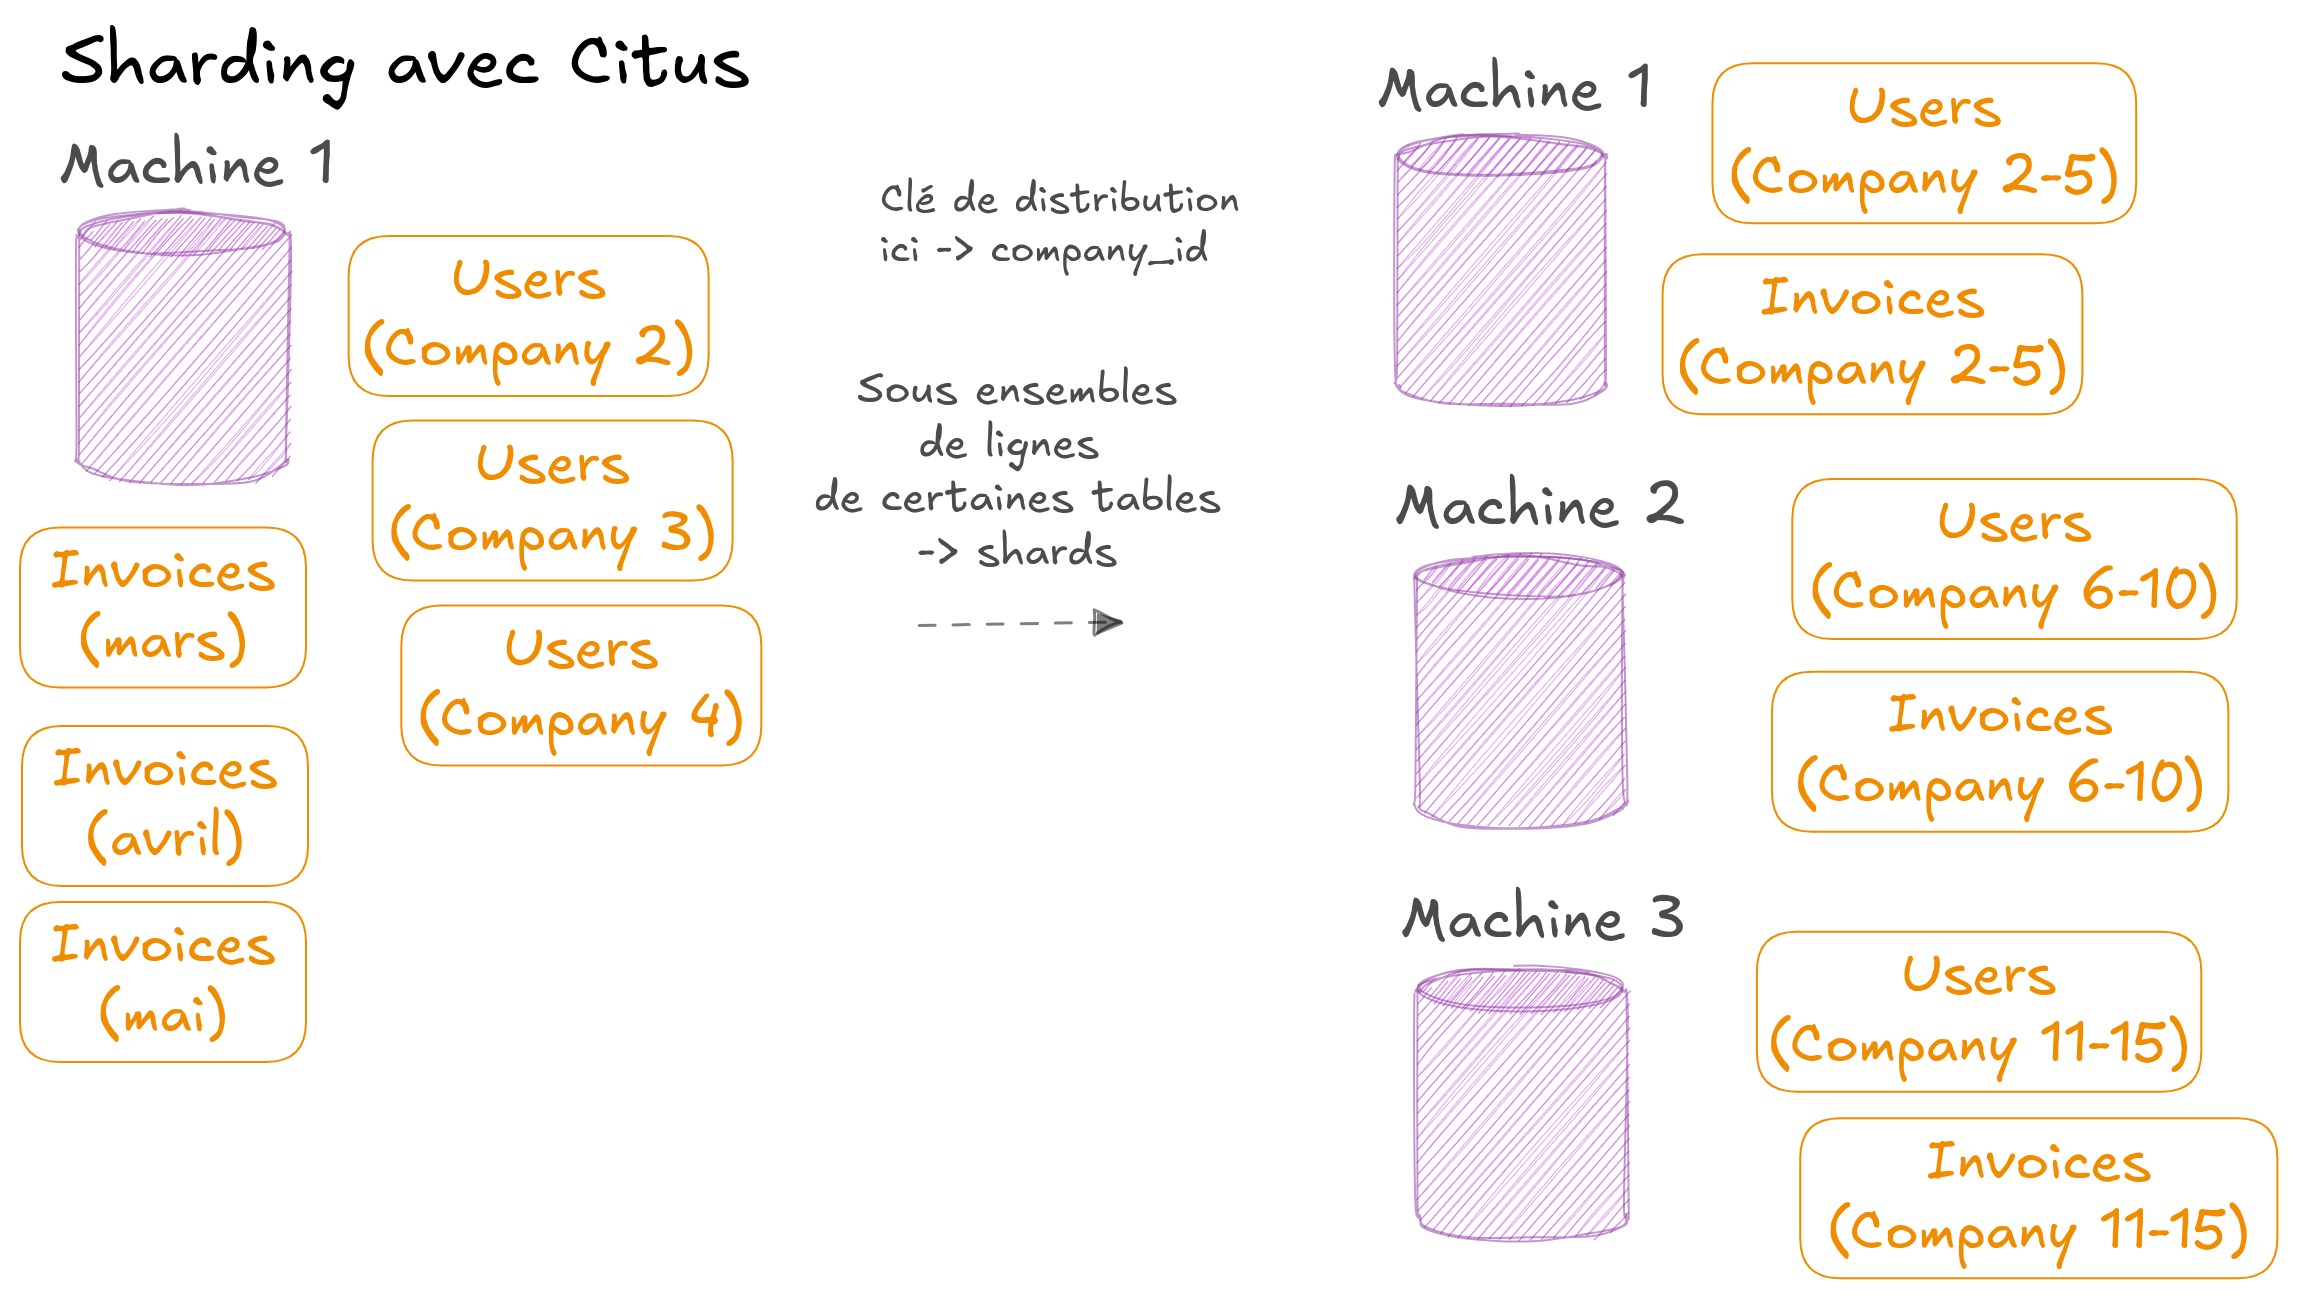
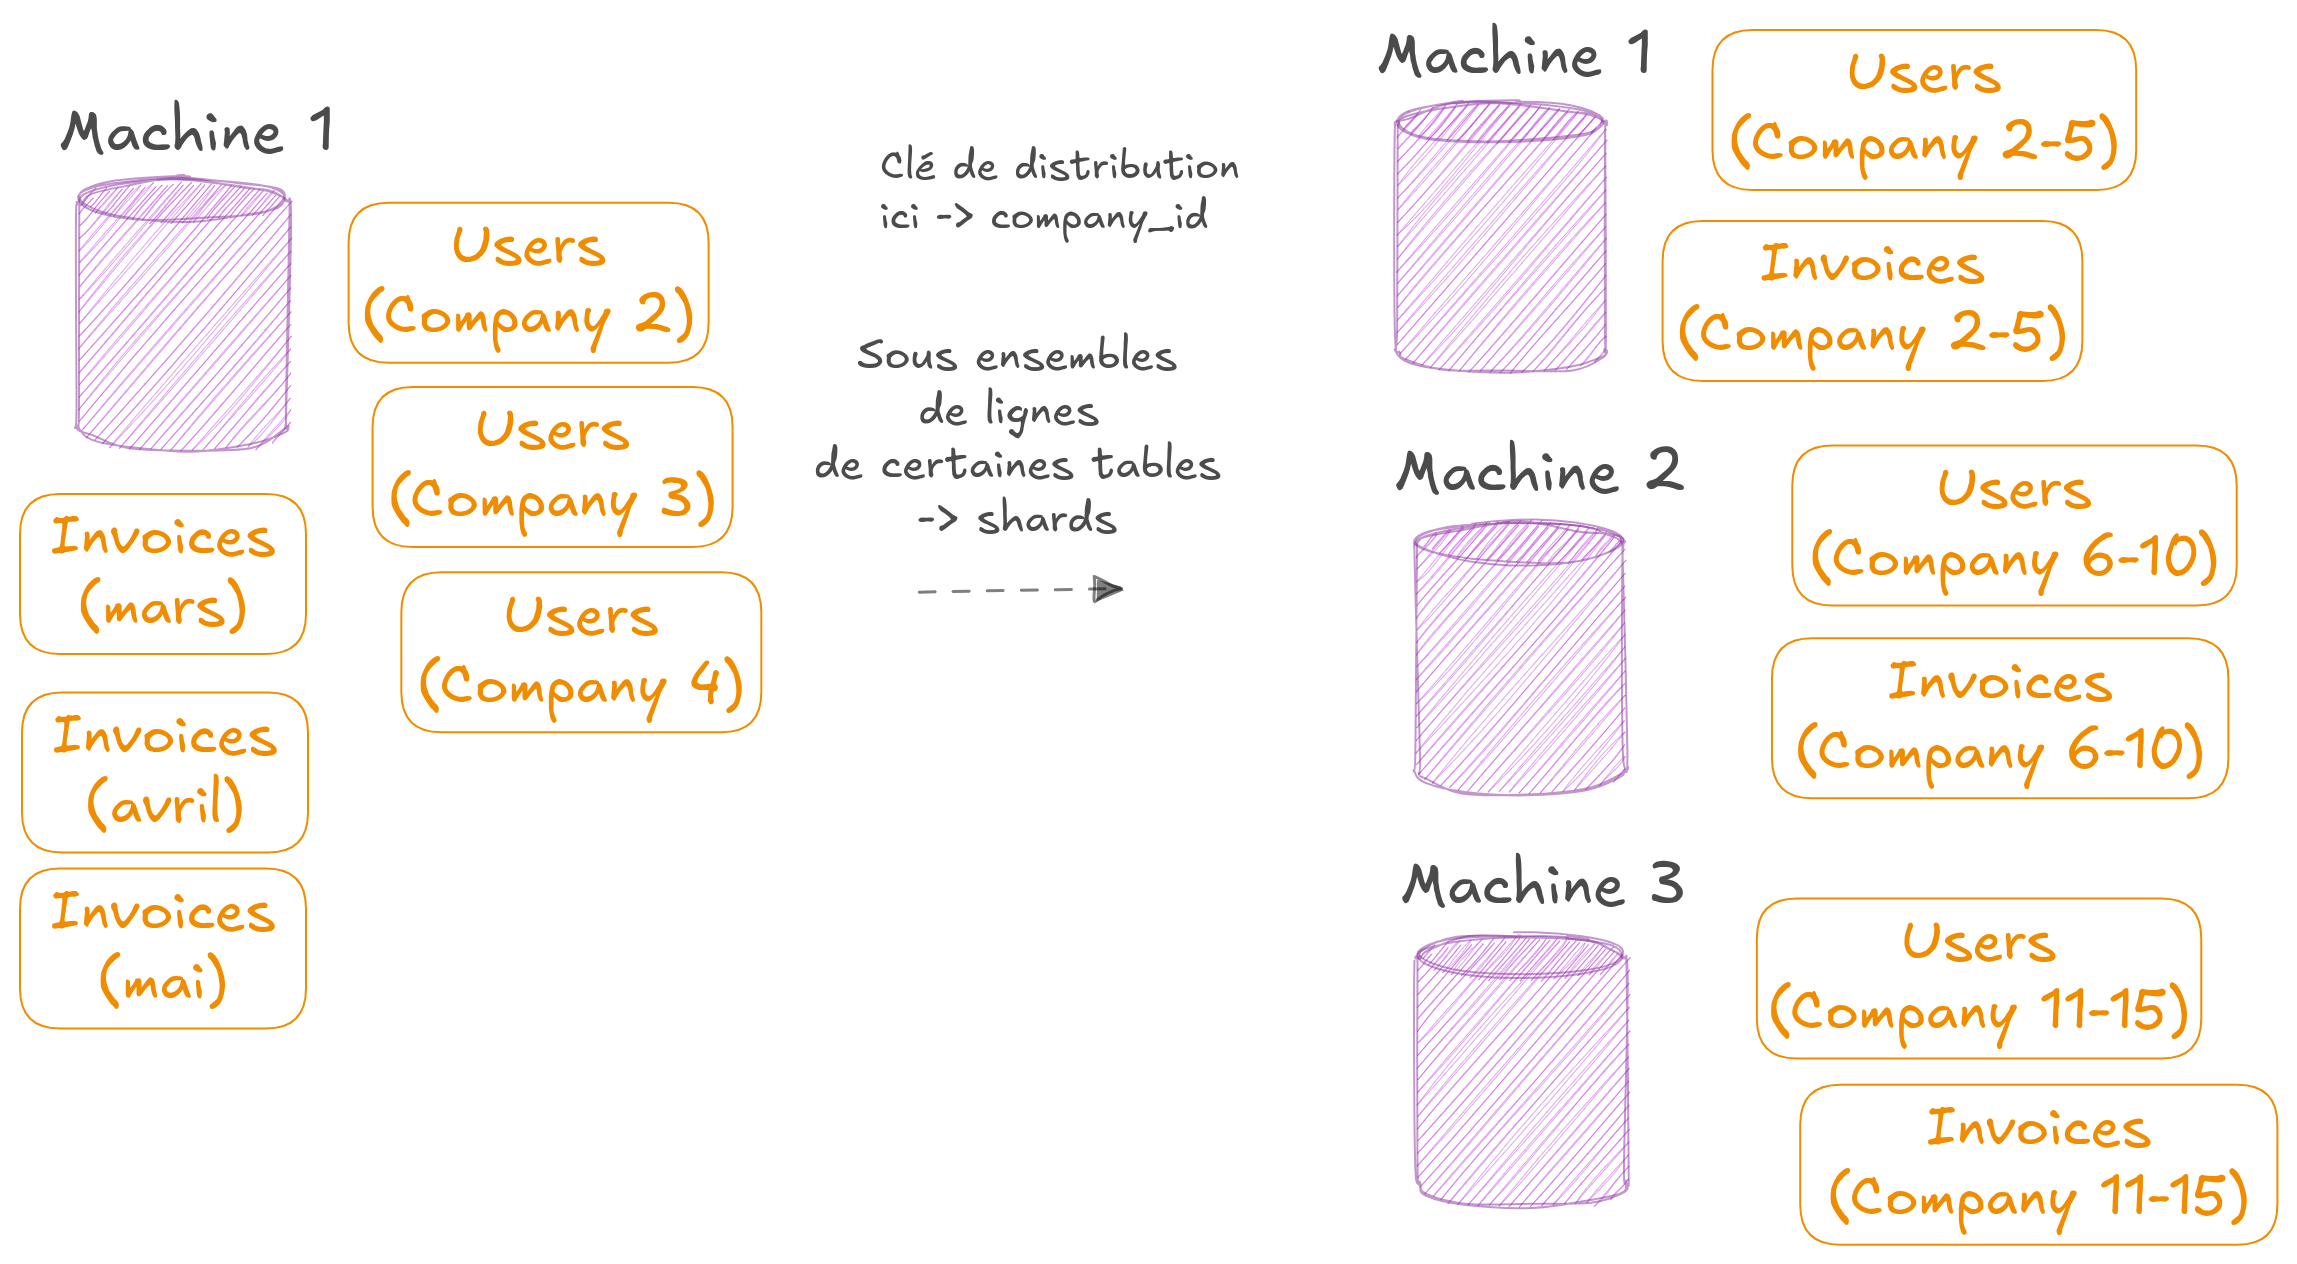
Last improvement to design of citus slides, center intro slide

diff --git a/slides.md b/slides.md
@@ -72,7 +72,6 @@ style: |
 
 ---
 
-### Comment faire de PostgreSQL un SGBD distribué?
 
 <!--
 
@@ -87,10 +86,18 @@ Dans une deuxième partie, nous allons expliquer les capacités natives de parti
 
 -->
 
+<div style="height: 100%; display: flex; justify-content: center; align-items: center">
+<div>
+
+### Comment faire de PostgreSQL un SGBD distribué?
+
 Nous allons traiter 2 axes principaux de la distribution dans PostgreSQL :
 
 - **Réplication** : Garantir la disponibilité des données en les répliquant entre plusieurs serveurs.
 - **Partitionnement et Sharding** : Diviser les données pour améliorer la scalabilité et l'efficacité.
+
+</div>
+</div>
 
 
 ---
@@ -308,17 +315,23 @@ select name from events where date = '2024-05-01' -- Jour spécifique
 
 ---
 
-![width:1100](./imgs/partionnement.png)
+## Partionnement natif PGSQL
+
+![width:1050](./imgs/partionnement.png)
 
 ---
+
+## Sharding avec Citus
 
 ![width:1100](./imgs/citus-1.png)
 
 ---
 
-![width:1100](./imgs/citus-2.png)
+## Citus - routage
+![width:1050](./imgs/citus-2.png)
 
 ---
+## Citus - parallélisation
 
-![width:1100](./imgs/citus-3.png)
+![width:1050](./imgs/citus-3.png)
 
